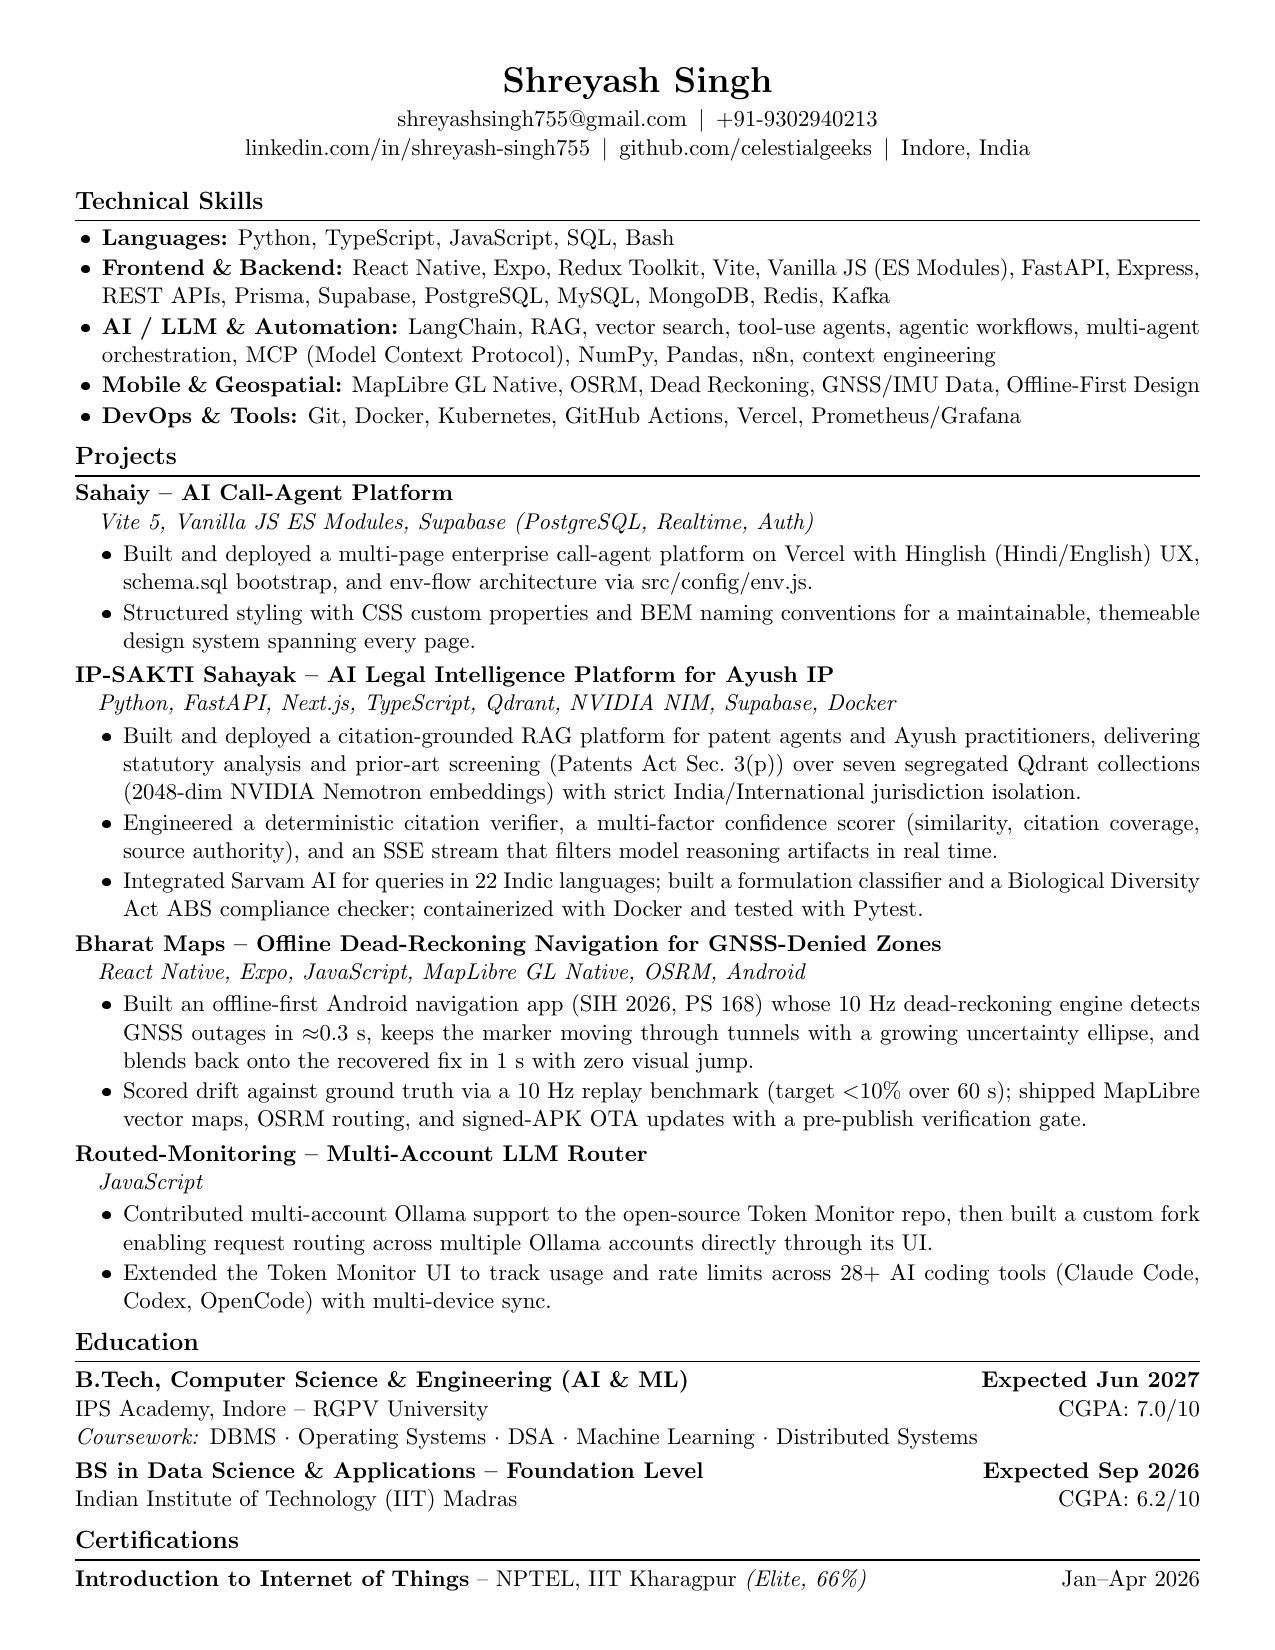
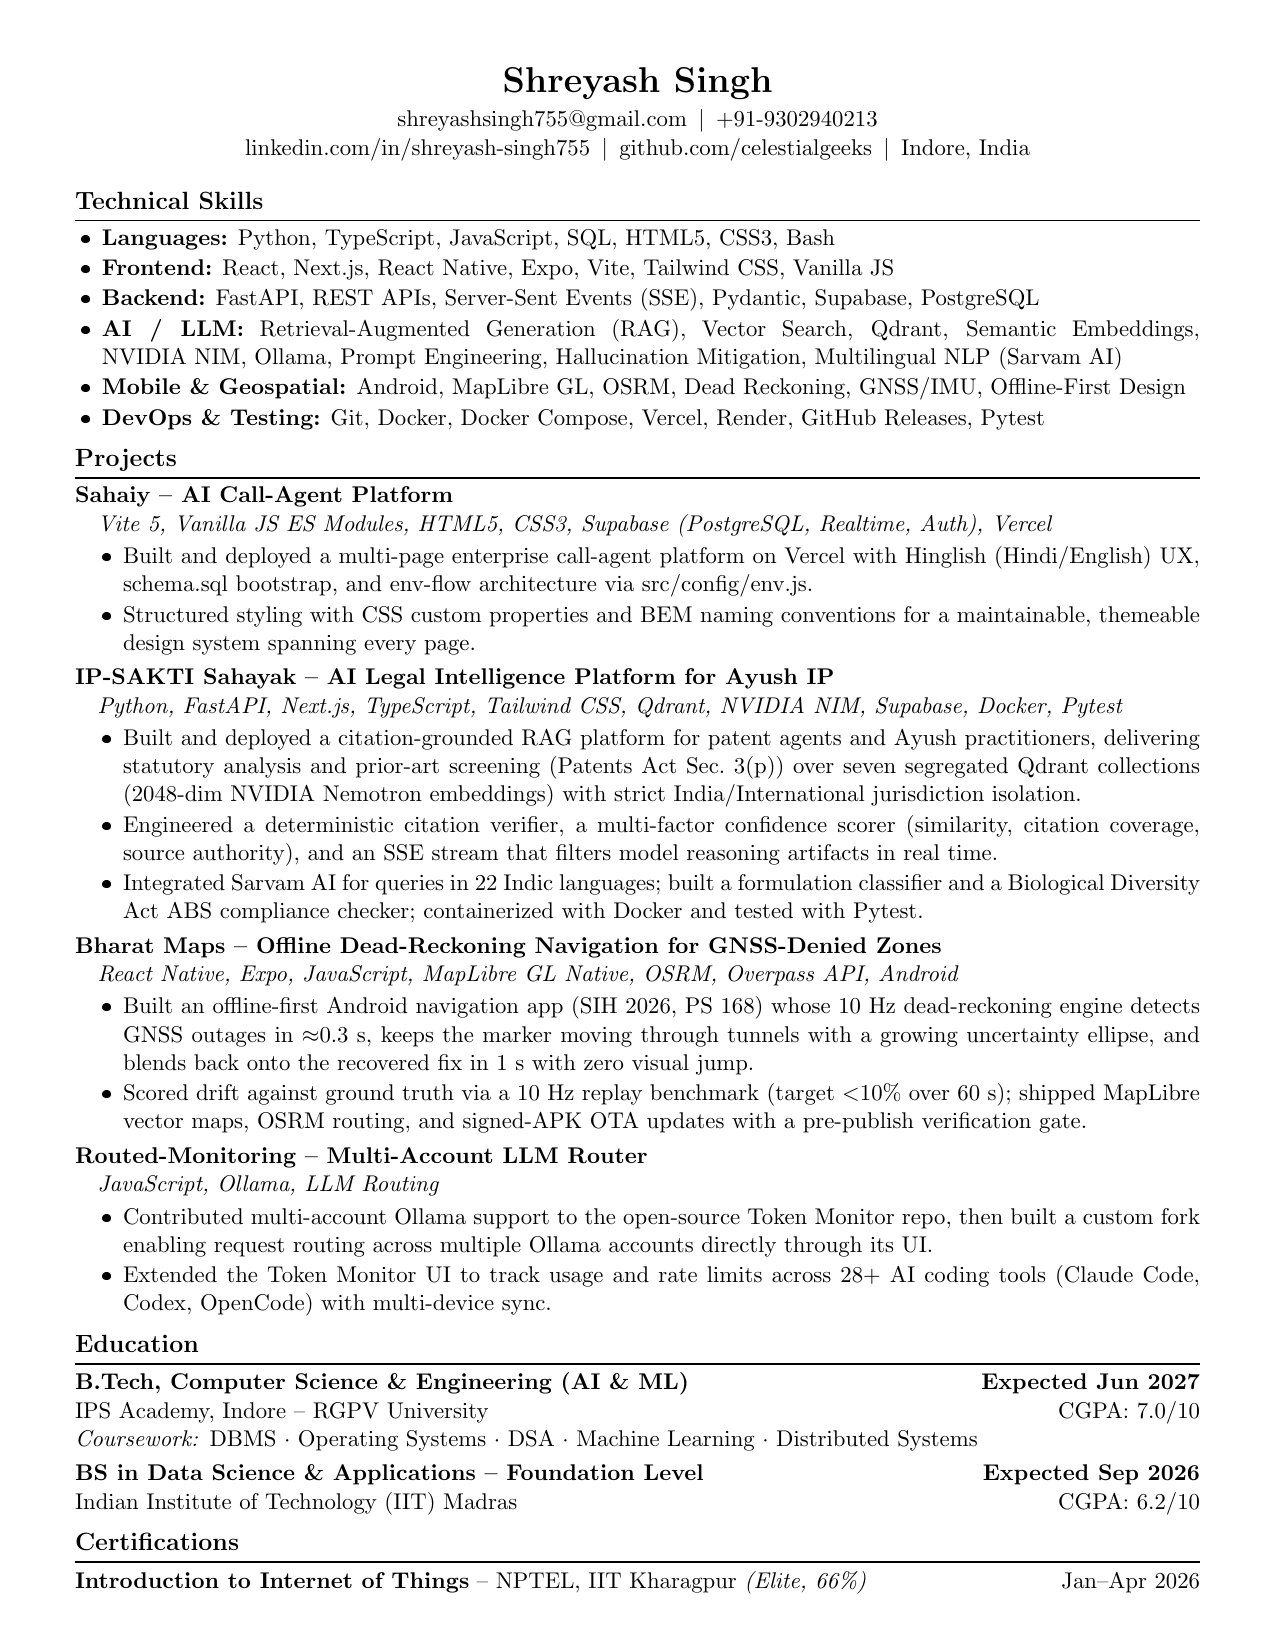
update(master): updated canonical resume [2026-09-24] - Canonical 1-Page Master Resume v4 (Updated Sep 24, 2026). Sk

diff --git a/master/resume.tex b/master/resume.tex
@@ -1,11 +1,12 @@
 % =====================================================================
-% Shreyash Singh — Master Resume v3 (ONE PAGE, 2026-08-25)
+% Shreyash Singh — Master Resume v4 (ONE PAGE, 2026-09-24, skills audited + ATS keywords)
 % Owner-provided structure: Contact -> Skills -> Projects (Sahaiy,
 %   Bharat Maps, Routed-Monitoring, IP-SAKTI Sahayak) ->
 %   Education (IPS Academy + IIT Madras Foundation) -> Certifications.
 % Typography hierarchy: 11pt body / LARGE bold name / scshape-bold sections
 % Margins: 0.5in sides, 0.45in top+bottom. MUST compile to exactly 1 page.
-% Facts: knowledge-pool.md only. No placeholders ship in output.
+% Facts: knowledge-pool.md only. Skills = only tech evidenced in the 4 listed projects.
+% No placeholders ship in output.
 % =====================================================================
 \documentclass[letterpaper,11pt]{article}
 
@@ -25,6 +26,7 @@
 \fi
 
 \pagestyle{empty}
+\hyphenpenalty=10000 \exhyphenpenalty=10000 \emergencystretch=1.5em
 \setlength{\parindent}{0pt}
 \setlist{leftmargin=0.18in,labelsep=0.45em,nosep,itemsep=1pt,topsep=3pt,partopsep=0pt,parsep=0pt}
 % Section heads: small caps + bold, hairline rule sits with clear space
@@ -46,20 +48,19 @@
 % ----- Skills: five compact grouped lines -----
 \section{Technical Skills}
 \begin{itemize}
-  \item \textbf{Languages:} Python, TypeScript, JavaScript, SQL, Bash
-  \item \textbf{Frontend \& Backend:} React Native, Expo, Redux Toolkit, Vite, Vanilla JS (ES Modules), FastAPI, Express,
-        REST APIs, Prisma, Supabase, PostgreSQL, MySQL, MongoDB, Redis, Kafka
-  \item \textbf{AI / LLM \& Automation:} LangChain, RAG, vector search, tool-use agents,
-        agentic workflows, multi-agent orchestration, MCP (Model Context Protocol), NumPy, Pandas,
-        n8n, context engineering
-  \item \textbf{Mobile \& Geospatial:} MapLibre GL Native, OSRM, Dead Reckoning, GNSS/IMU Data, Offline-First Design
-  \item \textbf{DevOps \& Tools:} Git, Docker, Kubernetes, GitHub Actions, Vercel, Prometheus/Grafana
+  \item \textbf{Languages:} Python, TypeScript, JavaScript, SQL, HTML5, CSS3, Bash
+  \item \textbf{Frontend:} React, Next.js, React Native, Expo, Vite, Tailwind CSS, Vanilla JS
+  \item \textbf{Backend:} FastAPI, REST APIs, Server-Sent Events (SSE), Pydantic, Supabase, PostgreSQL
+  \item \textbf{AI / LLM:} Retrieval-Augmented Generation (RAG), Vector Search, Qdrant, Semantic Embeddings, NVIDIA~NIM,
+        Ollama, Prompt Engineering, Hallucination Mitigation, Multilingual NLP (Sarvam AI)
+  \item \textbf{Mobile \& Geospatial:} Android, MapLibre GL, OSRM, Dead Reckoning, GNSS/IMU, Offline-First Design
+  \item \textbf{DevOps \& Testing:} Git, Docker, Docker Compose, Vercel, Render, GitHub Releases, Pytest
 \end{itemize}
 
 % ----- Projects: four, ordered per request (Sahaiy first, IP-SAKTI Sahayak last) -----
 \section{Projects}
 \textbf{Sahaiy -- AI Call-Agent Platform} \\
-\hspace*{0.15in}\textit{Vite 5, Vanilla JS ES Modules, Supabase (PostgreSQL, Realtime, Auth)}
+\hspace*{0.15in}\textit{Vite 5, Vanilla JS ES Modules, HTML5, CSS3, Supabase (PostgreSQL, Realtime, Auth), Vercel}
 \begin{itemize}[leftmargin=0.32in,labelsep=0.45em,itemsep=1pt,topsep=2pt,partopsep=0pt,parsep=0pt]
   \item Built and deployed a multi-page enterprise call-agent platform on Vercel with Hinglish
         (Hindi/English) UX, schema.sql bootstrap, and env-flow architecture via src/config/env.js.
@@ -69,7 +70,7 @@
 
 \vspace{1pt}
 \textbf{IP-SAKTI Sahayak -- AI Legal Intelligence Platform for Ayush IP} \\
-\hspace*{0.15in}\textit{Python, FastAPI, Next.js, TypeScript, Qdrant, NVIDIA NIM, Supabase, Docker}
+\hspace*{0.15in}\textit{Python, FastAPI, Next.js, TypeScript, Tailwind CSS, Qdrant, NVIDIA NIM, Supabase, Docker, Pytest}
 \begin{itemize}[leftmargin=0.32in,labelsep=0.45em,itemsep=1pt,topsep=2pt,partopsep=0pt,parsep=0pt]
   \item Built and deployed a citation-grounded RAG platform for patent agents and Ayush practitioners,
         delivering statutory analysis and prior-art screening (Patents Act Sec.~3(p)) over seven
@@ -83,7 +84,7 @@
 
 \vspace{1pt}
 \textbf{Bharat Maps -- Offline Dead-Reckoning Navigation for GNSS-Denied Zones} \\
-\hspace*{0.15in}\textit{React Native, Expo, JavaScript, MapLibre GL Native, OSRM, Android}
+\hspace*{0.15in}\textit{React Native, Expo, JavaScript, MapLibre GL Native, OSRM, Overpass API, Android}
 \begin{itemize}[leftmargin=0.32in,labelsep=0.45em,itemsep=1pt,topsep=2pt,partopsep=0pt,parsep=0pt]
   \item Built an offline-first Android navigation app (SIH 2026, PS~168) whose 10~Hz dead-reckoning engine detects
         GNSS outages in $\approx$0.3~s, keeps the marker moving through tunnels with a growing uncertainty ellipse,
@@ -94,7 +95,7 @@
 
 \vspace{1pt}
 \textbf{Routed-Monitoring -- Multi-Account LLM Router} \\
-\hspace*{0.15in}\textit{JavaScript}
+\hspace*{0.15in}\textit{JavaScript, Ollama, LLM Routing}
 \begin{itemize}[leftmargin=0.32in,labelsep=0.45em,itemsep=1pt,topsep=2pt,partopsep=0pt,parsep=0pt]
   \item Contributed multi-account Ollama support to the open-source Token Monitor repo, then built
         a custom fork enabling request routing across multiple Ollama accounts directly through

diff --git a/INDEX.md b/INDEX.md
@@ -2,11 +2,11 @@
 
 > Complete chronological index of all resume versions, target applications, and tailored changes.
 
-**Total Archived Versions:** `2` | **Last Cataloged:** `2026-09-24 14:49`
+**Total Archived Versions:** `2` | **Last Cataloged:** `2026-09-24 14:53`
 
 ### 🌟 Canonical Master Resume
 - **Status:** `✅ Active & Synced` | **Updated:** `2026-09-24`
-- **Highlights:** Canonical 1-Page Master Resume (Updated Sep 24, 2026). Showcases 4 flagship engineering initiatives: Sahaiy (Hinglish enterprise AI call-agent on Vite & Supabase), IP-SAKTI Sahayak (Statutory Ayush IP RAG platform with 2048-dim NVIDIA Nemotron embeddings over 7 Qdrant collections & Sarvam AI for 22 Indic languages), Bharat Maps (SIH 2026 offline dead-reckoning navigation engine for GNSS-denied zones with 10Hz sensor fusion, MapLibre & OSRM), and Routed-Monitoring (multi-account LLM router across 28+ tools). Full-stack, agentic AI, and mobile/geospatial systems.
+- **Highlights:** Canonical 1-Page Master Resume v4 (Updated Sep 24, 2026). Skills audited and categorized into 6 ATS-optimized domains: Languages (Python, TypeScript, JS, SQL, HTML5, CSS3, Bash), Frontend (React, Next.js, React Native, Expo, Vite, Tailwind CSS), Backend (FastAPI, REST APIs, SSE, Pydantic, Supabase, PostgreSQL), AI/LLM (RAG, Vector Search, Qdrant, Semantic Embeddings, NVIDIA NIM, Ollama, Prompt Engineering, Sarvam AI), Mobile & Geospatial (Android, MapLibre GL, OSRM, Dead Reckoning, GNSS/IMU), and DevOps/Testing (Git, Docker, Vercel, Render, Pytest). Synchronized project tech-stacks (Sahaiy, IP-SAKTI Sahayak, Bharat Maps, Routed-Monitoring) and improved typesetting with hyphenation suppression.
 - **Files:** [LaTeX Source](master/resume.tex) · [Download PDF](master/resume.pdf) · [Preview Image](assets/master_preview.png)
 
 ---

diff --git a/README.md b/README.md
@@ -28,7 +28,7 @@
 </div>
 
 > 💡 **Master Profile Highlights & Architecture**:  
-> Canonical 1-Page Master Resume (Updated Sep 24, 2026). Showcases 4 flagship engineering initiatives: Sahaiy (Hinglish enterprise AI call-agent on Vite & Supabase), IP-SAKTI Sahayak (Statutory Ayush IP RAG platform with 2048-dim NVIDIA Nemotron embeddings over 7 Qdrant collections & Sarvam AI for 22 Indic languages), Bharat Maps (SIH 2026 offline dead-reckoning navigation engine for GNSS-denied zones with 10Hz sensor fusion, MapLibre & OSRM), and Routed-Monitoring (multi-account LLM router across 28+ tools). Full-stack, agentic AI, and mobile/geospatial systems.
+> Canonical 1-Page Master Resume v4 (Updated Sep 24, 2026). Skills audited and categorized into 6 ATS-optimized domains: Languages (Python, TypeScript, JS, SQL, HTML5, CSS3, Bash), Frontend (React, Next.js, React Native, Expo, Vite, Tailwind CSS), Backend (FastAPI, REST APIs, SSE, Pydantic, Supabase, PostgreSQL), AI/LLM (RAG, Vector Search, Qdrant, Semantic Embeddings, NVIDIA NIM, Ollama, Prompt Engineering, Sarvam AI), Mobile & Geospatial (Android, MapLibre GL, OSRM, Dead Reckoning, GNSS/IMU), and DevOps/Testing (Git, Docker, Vercel, Render, Pytest). Synchronized project tech-stacks (Sahaiy, IP-SAKTI Sahayak, Bharat Maps, Routed-Monitoring) and improved typesetting with hyphenation suppression.
 
 <br/>
 
